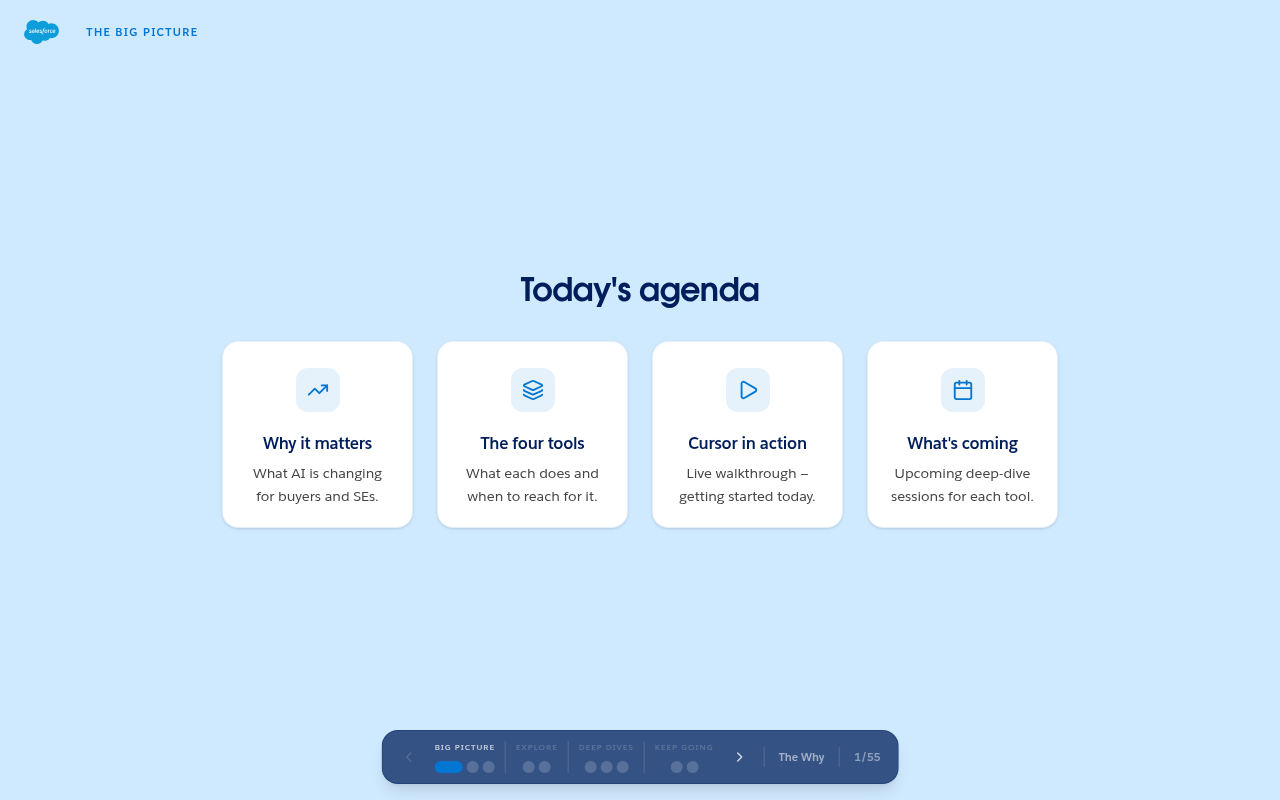
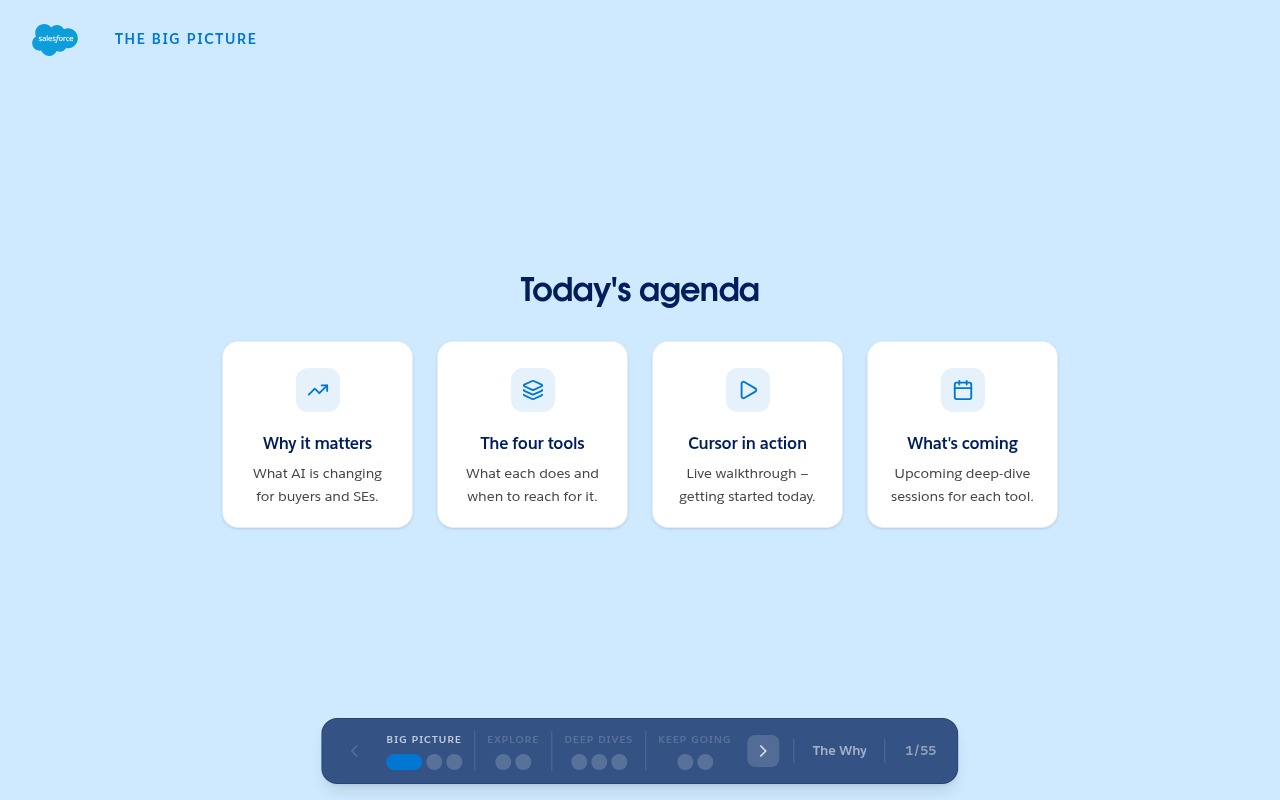
Scale up presentation for better readability without browser zoom
Increase auto-scale max (1.2→1.5), enlarge logo/section labels,
scale up DockNav (dots, icons, text, dividers), reduce stage padding,
and update screenshot.

Changed region(s): [[0.25, 0.875, 0.75, 1.0], [0.0, 0.0312, 0.1875, 0.0625]]

diff --git a/src/components/core/DockNav.jsx b/src/components/core/DockNav.jsx
@@ -122,7 +122,7 @@ export default function DockNav({
         visible ? 'opacity-100 translate-y-0' : 'opacity-0 translate-y-4 pointer-events-none'
       }`}
     >
-      <div className={`flex items-center gap-2 px-3 py-2.5 rounded-2xl border shadow-lg backdrop-blur-xl ${
+      <div className={`flex items-center gap-3 px-4 py-3 rounded-2xl border shadow-lg backdrop-blur-xl ${
         isDarkBg
           ? 'bg-white/10 border-white/15'
           : 'bg-[var(--color-heading)]/75 border-[var(--color-heading)]/30'
@@ -135,7 +135,7 @@ export default function DockNav({
           className="p-1.5 rounded-lg transition-colors cursor-pointer disabled:opacity-20 disabled:cursor-default hover:bg-white/15"
           aria-label="Previous slide"
         >
-          <ChevronLeft size={16} className="text-white/80" />
+          <ChevronLeft size={20} className="text-white/80" />
         </button>
 
         {/* Tier groups with labels above dots */}
@@ -149,12 +149,12 @@ export default function DockNav({
             return (
               <div key={tIdx} className="flex items-center gap-0.5">
                 {tIdx > 0 && (
-                  <div className="w-px h-8 mx-2 bg-white/15" />
+                  <div className="w-px h-10 mx-2.5 bg-white/15" />
                 )}
                 <div className="flex flex-col items-center gap-1.5">
 
                   {/* Tier label — always visible, brightness reflects state */}
-                  <span className={`text-[8px] font-bold uppercase tracking-[0.12em] whitespace-nowrap transition-all duration-300 ${
+                  <span className={`text-[10px] font-bold uppercase tracking-[0.12em] whitespace-nowrap transition-all duration-300 ${
                     tierIsActive
                       ? 'text-white/70'
                       : tierIsCompleted
@@ -182,19 +182,19 @@ export default function DockNav({
                             onClick={() => onGoToSection(section.id)}
                             className={`rounded-full transition-all duration-250 cursor-pointer flex items-center justify-center ${
                               isActive
-                                ? 'w-7 h-3 bg-[var(--color-accent)]'
+                                ? 'w-9 h-4 bg-[var(--color-accent)]'
                                 : isCompleted
-                                ? 'w-3 h-3 bg-white/60 hover:bg-white/80'
-                                : 'w-3 h-3 bg-white/18 hover:bg-white/35'
+                                ? 'w-4 h-4 bg-white/60 hover:bg-white/80'
+                                : 'w-4 h-4 bg-white/18 hover:bg-white/35'
                             }`}
                             aria-label={`Go to ${section.title}`}
                           >
-                            {Logo && isActive && <Logo size={10} />}
+                            {Logo && isActive && <Logo size={12} />}
                           </button>
 
                           {/* Tooltip on hover */}
                           {hoveredSection === section.id && (
-                            <div className="absolute bottom-full left-1/2 -translate-x-1/2 mb-2 px-2.5 py-1 rounded-lg bg-[var(--color-heading)] text-white text-[11px] font-bold whitespace-nowrap shadow-lg pointer-events-none">
+                            <div className="absolute bottom-full left-1/2 -translate-x-1/2 mb-2 px-3 py-1.5 rounded-lg bg-[var(--color-heading)] text-white text-[13px] font-bold whitespace-nowrap shadow-lg pointer-events-none">
                               {isCompleted ? '✓ ' : ''}{section.title}
                               <div className="absolute top-full left-1/2 -translate-x-1/2 w-0 h-0 border-l-4 border-r-4 border-t-4 border-transparent border-t-[var(--color-heading)]" />
                             </div>
@@ -217,46 +217,46 @@ export default function DockNav({
           className="p-1.5 rounded-lg transition-colors cursor-pointer disabled:opacity-20 disabled:cursor-default hover:bg-white/15"
           aria-label="Next slide"
         >
-          <ChevronRight size={16} className="text-white/80" />
+          <ChevronRight size={20} className="text-white/80" />
         </button>
 
-        <div className="w-px h-5 bg-white/15 mx-0.5" />
+        <div className="w-px h-6 bg-white/15 mx-0.5" />
 
         {/* Section context — shows current + upcoming when near a boundary */}
         <div className="flex items-center gap-1.5 px-1">
           {activeSectionTitle && (
-            <span className="text-[11px] font-bold text-white/55 max-w-[80px] truncate">
+            <span className="text-[13px] font-bold text-white/55 max-w-[100px] truncate">
               {activeSectionTitle}
             </span>
           )}
           {isNearSectionEnd && nextSection && (
             <>
-              <span className="text-[10px] text-white/25">→</span>
-              <span className="text-[11px] text-white/30 max-w-[70px] truncate">
+              <span className="text-[12px] text-white/25">→</span>
+              <span className="text-[13px] text-white/30 max-w-[85px] truncate">
                 {nextSection.title}
               </span>
             </>
           )}
         </div>
 
-        <div className="w-px h-5 bg-white/15 mx-0.5" />
+        <div className="w-px h-6 bg-white/15 mx-0.5" />
 
         {/* Slide counter */}
-        <span className="text-[11px] font-bold text-white/45 tabular-nums min-w-[36px] text-center">
+        <span className="text-[13px] font-bold text-white/45 tabular-nums min-w-[42px] text-center">
           {current + 1}/{total}
         </span>
 
         {/* Explore drawer button */}
         {hasExploreContent && (
           <>
-            <div className="w-px h-5 bg-white/15 mx-0.5" />
+            <div className="w-px h-6 bg-white/15 mx-0.5" />
             <button
               onClick={onExplore}
               className="p-1.5 rounded-lg transition-colors cursor-pointer hover:bg-white/15"
               aria-label="Explore section"
               title="Explore (E)"
             >
-              <BookOpen size={14} className="text-white/60" />
+              <BookOpen size={18} className="text-white/60" />
             </button>
           </>
         )}

diff --git a/src/components/core/PresentationDeck.jsx b/src/components/core/PresentationDeck.jsx
@@ -108,9 +108,9 @@ export default function PresentationDeck({ sections, onSlideChange, onNavReady }
       const contentW = content.scrollWidth
       const contentH = content.scrollHeight
       const { width: stageW, height: stageH } = stage.getBoundingClientRect()
-      const availW = stageW - 80
-      const availH = stageH - 40
-      const s = Math.min(availW / contentW, availH / contentH, 1.2)
+      const availW = stageW - 48
+      const availH = stageH - 24
+      const s = Math.min(availW / contentW, availH / contentH, 1.5)
       const clamped = Math.max(0.4, s)
       content.style.transform = `scale(${clamped})`
       setScale(clamped)
@@ -157,18 +157,18 @@ export default function PresentationDeck({ sections, onSlideChange, onNavReady }
       className={`relative w-full h-full flex flex-col transition-colors duration-500 pointer-events-none ${getSlideBackground()}`}
     >
       {/* Salesforce logo + section label - top left */}
-      <div className="absolute top-5 left-6 z-10 pointer-events-auto flex items-center gap-3">
+      <div className="absolute top-6 left-8 z-10 pointer-events-auto flex items-center gap-4">
         <img
           src="https://assets.meshmesh.io/system/salesforce-with-type-logo.svg"
           alt="Salesforce"
-          className={`h-6 w-auto transition-all duration-300 ${
+          className={`h-8 w-auto transition-all duration-300 ${
             isDarkBg ? 'brightness-0 invert' : ''
           }`}
         />
         {currentItem.sectionLabel && (
           <>
-            <span className={`text-[11px] ${isDarkBg ? 'text-white/20' : 'text-[var(--color-border)]'}`}>|</span>
-            <span className={`text-[11px] font-bold uppercase tracking-[0.12em] ${
+            <span className={`text-[14px] ${isDarkBg ? 'text-white/20' : 'text-[var(--color-border)]'}`}>|</span>
+            <span className={`text-[14px] font-bold uppercase tracking-[0.12em] ${
               isDarkBg ? 'text-[var(--color-cloud-light)]' : 'text-[var(--color-accent)]'
             }`}>
               {currentItem.sectionLabel}
@@ -185,7 +185,7 @@ export default function PresentationDeck({ sections, onSlideChange, onNavReady }
           className="animate-in fade-in duration-300 pointer-events-auto"
           style={{
             transformOrigin: 'center center',
-            padding: '24px 48px',
+            padding: '16px 32px',
           }}
         >
           {fullscreenRenderers[currentItem.slide.layout]?.(currentItem.slide, { isDarkBg })}
